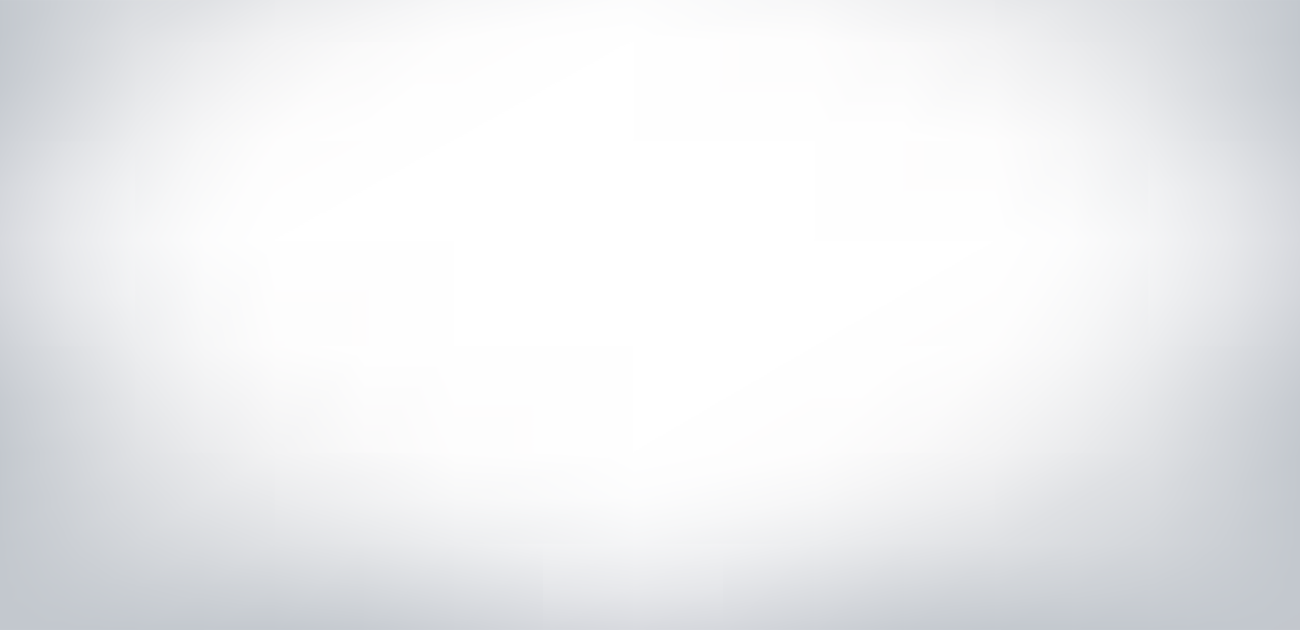
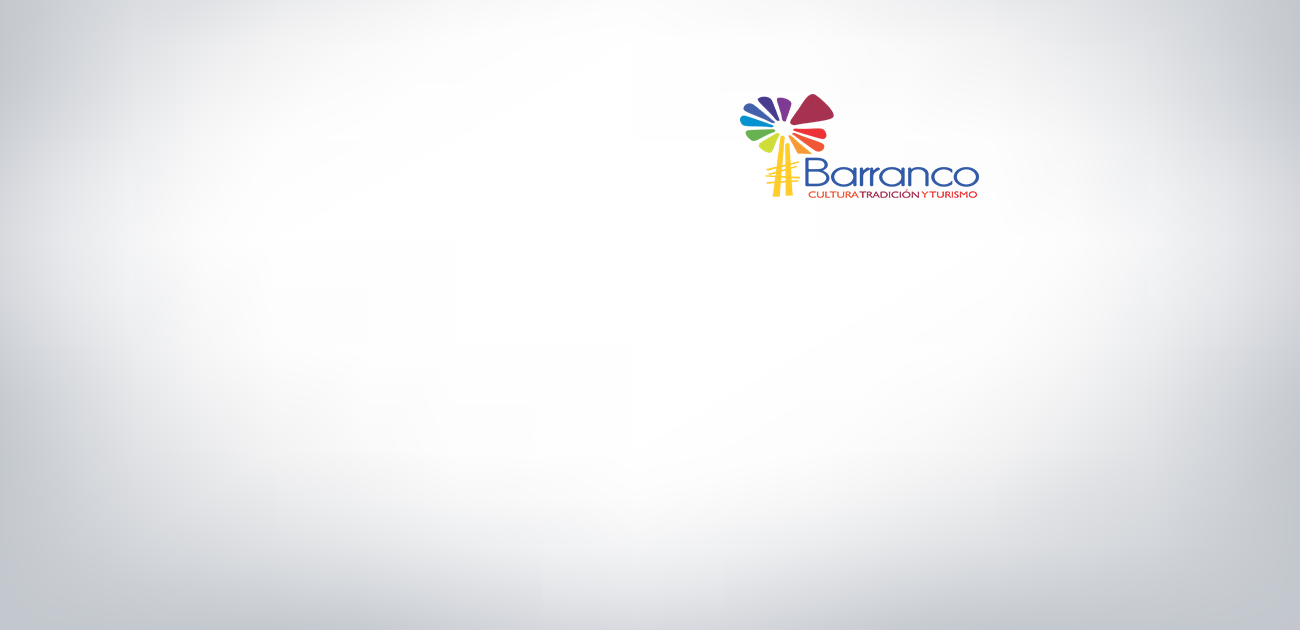
dsdds

Changed region(s): [[0.5538, 0.1508, 0.7692, 0.3317]]

diff --git a/css/estilo-tramites.css b/css/estilo-tramites.css
@@ -60,7 +60,7 @@
 	
 	}
 .header-cuerpo{
-		background: #399;
+		background: none;
 		position: absolute;
 		left:5%;
 		top: 2%;
@@ -129,7 +129,7 @@
 		background: none;
 		position: absolute;
 		z-index: 2;
-		top: 14%;
+		top: 30%;
 		left: 40.3%;
 		width: 54.7%;
 		height: 55%;
